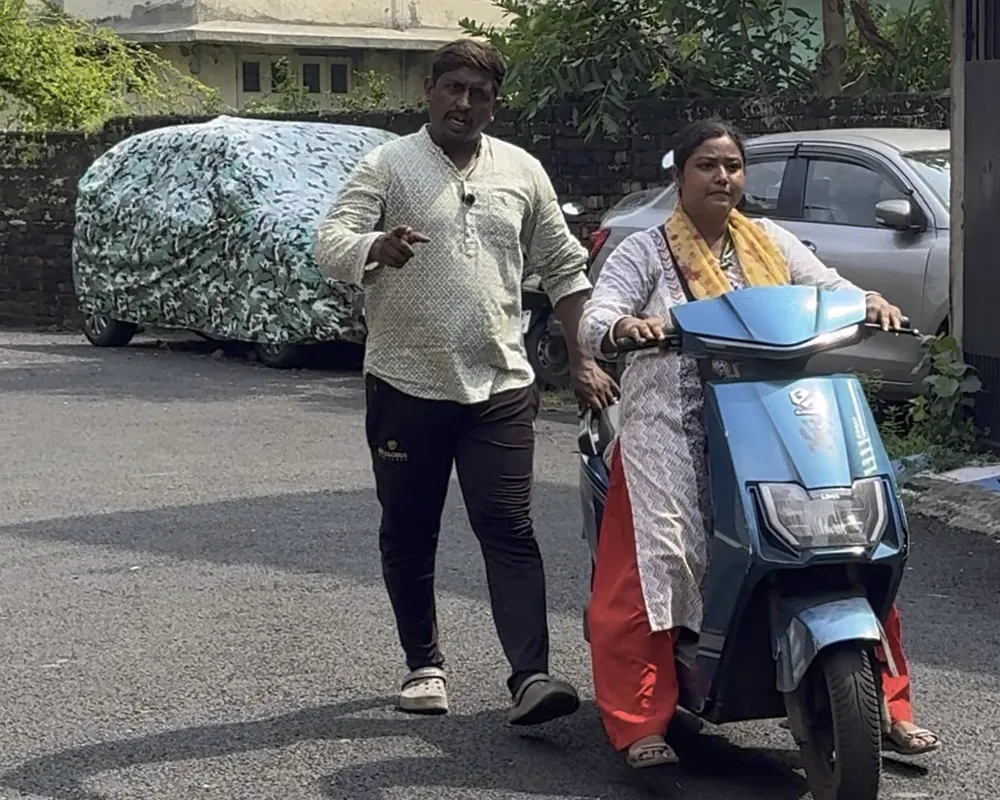
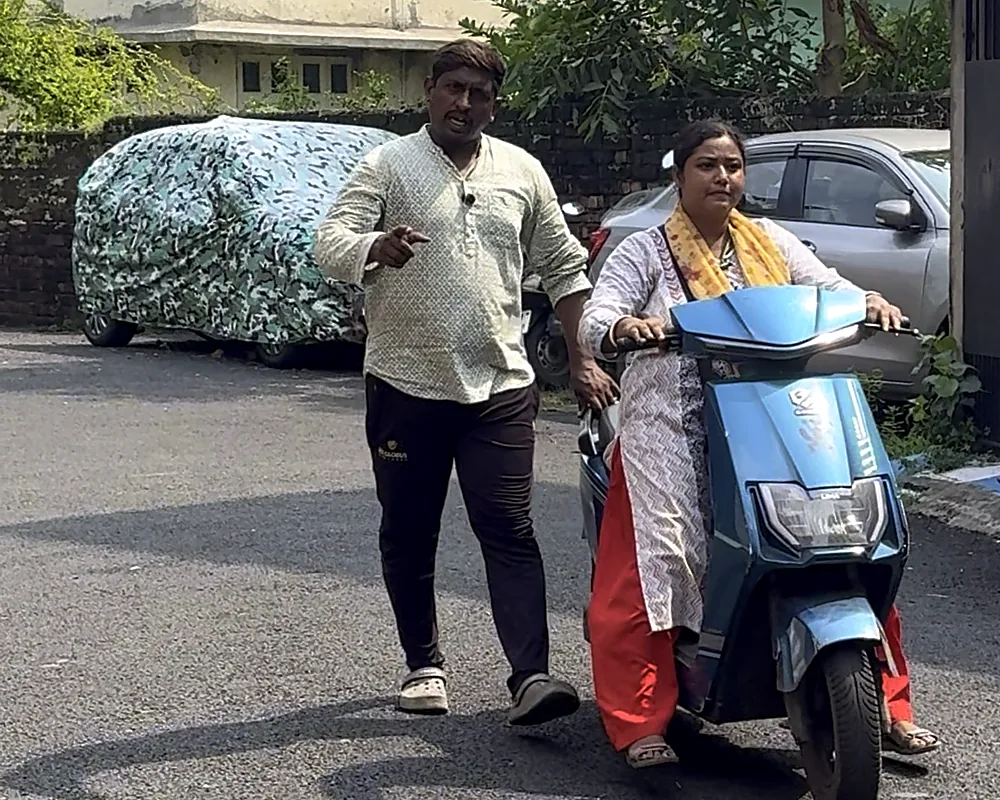
Lightly enhance photos and refresh the class gallery
- Subtle brightness/contrast/colour lift and sharpening (no AI)
- Gallery now shows four different moments: first ride, trainer
  explaining, lane practice, bike learner with trainer
- Keep a solo bike-ride photo for the Bike Training page

Claude-Session: https://claude.ai/code/session_01ViC9NPLRmWp7CX7JvCdQD4

diff --git a/src/data/site.ts b/src/data/site.ts
@@ -49,9 +49,9 @@ export const photos = {
 // Shown in "From our classes" until photos are loaded from the database.
 export const gallery = [
   { src: '/images/gallery-first-ride.webp', alt: 'Learner on her first scooty ride, feet ready on the ground' },
-  { src: '/images/gallery-trainer-guiding.webp', alt: 'Trainer showing a beginner how to start the scooty' },
-  { src: '/images/gallery-road-practice.webp', alt: 'Trainer walking alongside a learner during lane practice' },
-  { src: '/images/gallery-bike-riding.webp', alt: 'Learner riding a motorcycle on her own' },
+  { src: '/images/gallery-trainer-explaining.webp', alt: 'Trainer explaining throttle and brake control to a beginner' },
+  { src: '/images/gallery-any-age.webp', alt: 'Trainer walking beside a learner on a quiet lane' },
+  { src: '/images/gallery-bike-with-trainer.webp', alt: 'Bike learner with her trainer before a practice ride' },
 ];
 
 export type Course = {
